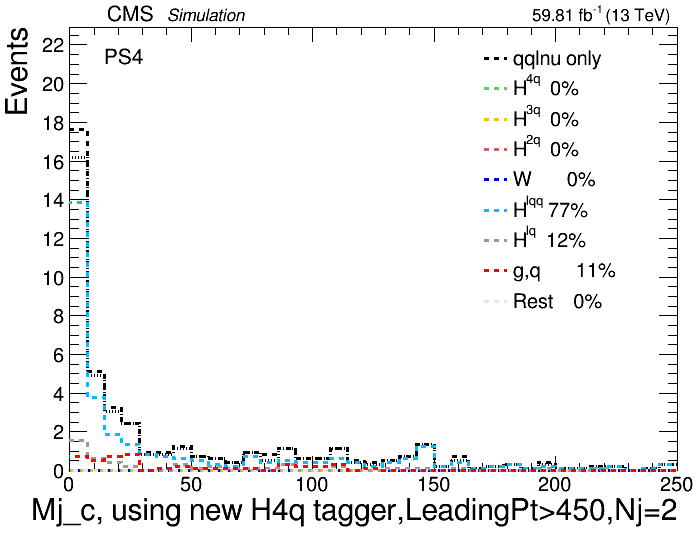
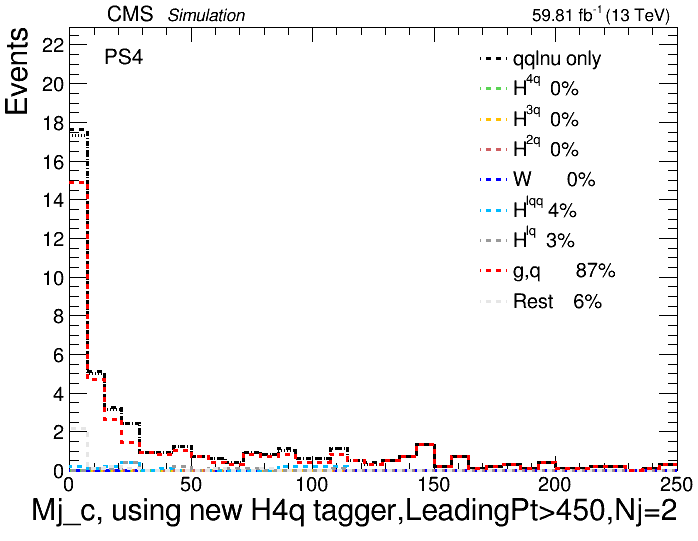
pt jc

Changed region(s): [[0.0903, 0.7394, 0.9628, 0.8872], [0.1203, 0.3549, 0.1504, 0.7394], [0.7822, 0.3549, 0.8725, 0.5619]]

diff --git a/Makeplots_HWW_Nj2_OverData.py b/Makeplots_HWW_Nj2_OverData.py
@@ -179,7 +179,7 @@ class ANALYSIS:
             #self.construct_plot(Nj, "JetMass_Nj2_c"    ,selection          ,"",tag  ,50, 0 ,60,"Mj_c, Nj=2"                        ,"Events" ,logy,CR);             
             #self.construct_plot(Nj, "JetMass_Nj2_a"    ,selection          ,"",tag  ,50, 0 ,250,"Mj_a, Nj=2"                        ,"Events" ,logy,CR);             
             #self.construct_plot(Nj, "JetMass_Nj2_c"    ,selection          ,"",tag  ,50, 0 ,250,"Mj_c, Nj=2"                        ,"Events" ,logy,CR);             
-            self.construct_plot(Nj, "JetMass_Nj2_a_new"    ,selection          ,"",tag  ,35, 0 ,250,"Mj_a, using new H4q tagger,LeadingPt>450,Nj=2"                        ,"Events" ,logy,CR);             
+            #self.construct_plot(Nj, "JetMass_Nj2_a_new"    ,selection          ,"",tag  ,35, 0 ,250,"Mj_a, using new H4q tagger,LeadingPt>450,Nj=2"                        ,"Events" ,logy,CR);             
             self.construct_plot(Nj, "JetMass_Nj2_c_new"    ,selection          ,"",tag  ,35, 0 ,250,"Mj_c, using new H4q tagger,LeadingPt>450,Nj=2"                        ,"Events" ,logy,CR);             
             #self.construct_plot(Nj, "MET_pt/Pt_Nj2_a_new"    ,selection          ,"",tag  ,20, 0 ,1,"MET/PT_Higgs, using new H4q tagger order,Nj=2"                        ,"Events" ,logy,CR);  
             #self.construct_plot(Nj, "MET_pt/(Pt_Nj2_a_new+Pt_Nj2_c_new)**0.5"    ,selection          ,"",tag  ,20, 0 ,10,"MET Significance"                        ,"Events" ,logy,CR);  
@@ -426,14 +426,14 @@ class ANALYSIS:
             # Rlq =" && (( Rlq_max  ==1 && Wa_MO_AK8==1) || ( Rlq_min ==1 && Wa_MO_AK8==3) )";
             # g   =" && (( gKK_g_max==1 && Wa_MO_AK8==1) || (gKK_g_min==1 && Wa_MO_AK8==3) )";
             # Rest=" && (( u_max    ==1 && Wa_MO_AK8==1) || (   u_min ==1 && Wa_MO_AK8==3) )";
-            H4q =" &&  (AK8_Mode_Nj2_a_new==4)";
-            H3q =" && (AK8_Mode_Nj2_a_new==5)";
-            H2q =" && (AK8_Mode_Nj2_a_new==6)";
-            W   =" && (AK8_Mode_Nj2_a_new==7)";
-            Hlqq =" && (AK8_Mode_Nj2_a_new==8)";
-            Hlq =" && (AK8_Mode_Nj2_a_new==9)";
-            g   =" && (AK8_Mode_Nj2_a_new==3)";
-            Rest=" && (AK8_Mode_Nj2_a_new==-99)";
+            H4q =" &&  (AK8_Mode_Nj2_c_new==4)";
+            H3q =" && (AK8_Mode_Nj2_c_new==5)";
+            H2q =" && (AK8_Mode_Nj2_c_new==6)";
+            W   =" && (AK8_Mode_Nj2_c_new==7)";
+            Hlqq =" && (AK8_Mode_Nj2_c_new==8)";
+            Hlq =" && (AK8_Mode_Nj2_c_new==9)";
+            g   =" && (AK8_Mode_Nj2_c_new==3)";
+            Rest=" && (AK8_Mode_Nj2_c_new==-99)";
             eval("t_Signal1").Draw("(%s) >> %s"%(variable,"h_Signal1_H4q") ,"(%s*%s)*(%s)"%(weight,self.Signal_Scale1,cut+H4q ) );
             eval("t_Signal1").Draw("(%s) >> %s"%(variable,"h_Signal1_H3q") ,"(%s*%s)*(%s)"%(weight,self.Signal_Scale1,cut+H3q ) );
             eval("t_Signal1").Draw("(%s) >> %s"%(variable,"h_Signal1_H2q") ,"(%s*%s)*(%s)"%(weight,self.Signal_Scale1,cut+H2q ) );
